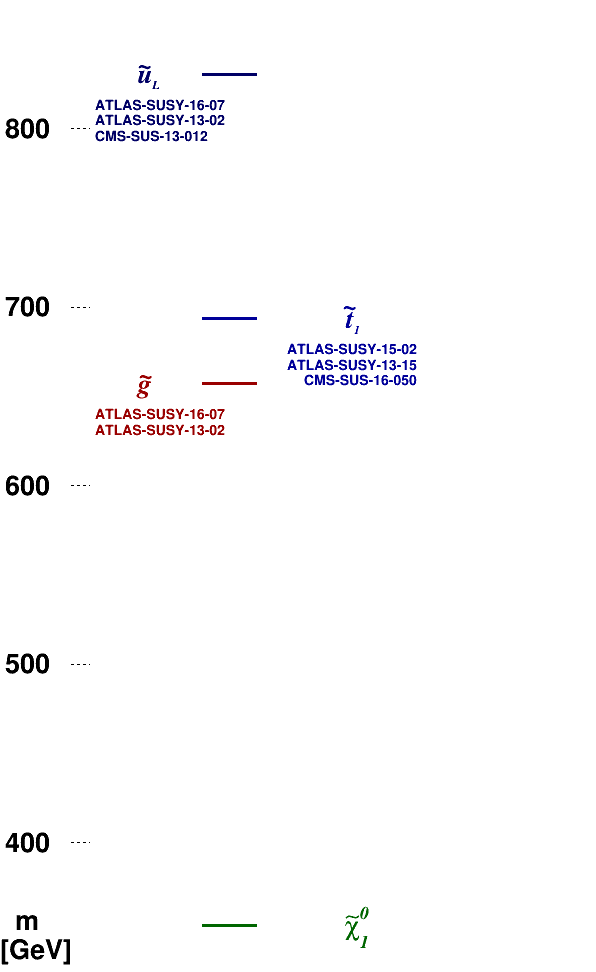
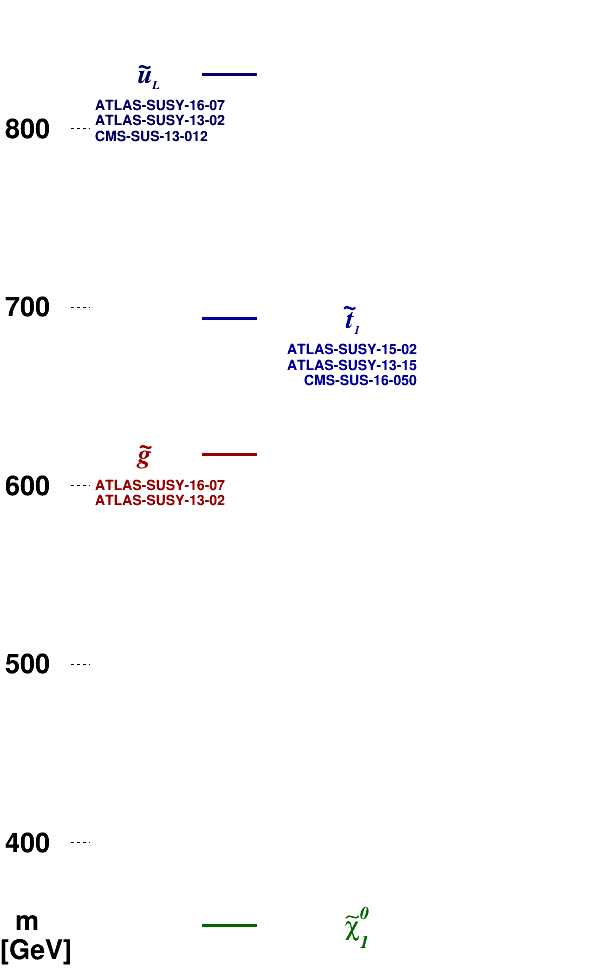
automated update by plotHiscore.py

Changed region(s): [[0.151, 0.3704, 0.3926, 0.5247]]

diff --git a/protomodels/latest/index.html b/protomodels/latest/index.html
@@ -1,17 +1,17 @@
 <html>
 <body>
 <center>
-<table><td><h1>Current best protomodel: K=9.82, Z=3.63</h1><td><img height=60px src=https://smodels.github.io/pics/banner.png></table>
+<table><td><h1>Current best protomodel: K=9.85, Z=3.63</h1><td><img height=60px src=https://smodels.github.io/pics/banner.png></table>
 </center>
-<b><a href=./hiscore.slha>ProtoModel</a> <a href=./pmodel.py>(dict)</a> produced with <a href=https://smodels.github.io/docs/Validation123>database v1.2.3</a>, combination strategy <a href=./matrix_aggressive.png>aggressive</a> in walker 12 step 288.</b> Z plots for: <a href=./M1000022.png?2255424>~&chi;<sub>1</sub><sup>0</sup></a>, <a href=./M1000002.png?2255424>~u<sub>L</sub></a>, <a href=./M1000006.png?2255424>~t<sub>1</sub></a>, <a href=./M1000021.png?2255424>~g</a>. HPD plots for: <a href=./llhd1000002.png?2255424>~u<sub>L</sub></a>, <a href=./llhd1000006.png?2255424>~t<sub>1</sub></a>, <a href=./llhd1000021.png?2255424>~g</a>. SSM plots for: <a href=./ssm_1000021_1000021.png?2255424>(~g,~g)</a>, <a href=./ssm_-1000006_1000006.png?2255424>(~t<sub>1</sub><sup>*</sup>,~t<sub>1</sub>)</a><br>
+<b><a href=./hiscore.slha>ProtoModel</a> <a href=./pmodel.py>(dict)</a> produced with <a href=https://smodels.github.io/docs/Validation123>database v1.2.3</a>, combination strategy <a href=./matrix_aggressive.png>aggressive</a> in walker 7 step 289.</b> Z plots for: <a href=./M1000022.png?2255535>~&chi;<sub>1</sub><sup>0</sup></a>, <a href=./M1000002.png?2255535>~u<sub>L</sub></a>, <a href=./M1000006.png?2255535>~t<sub>1</sub></a>, <a href=./M1000021.png?2255535>~g</a>. HPD plots for: <a href=./llhd1000002.png?2255535>~u<sub>L</sub></a>, <a href=./llhd1000006.png?2255535>~t<sub>1</sub></a>, <a href=./llhd1000021.png?2255535>~g</a>. SSM plots for: <a href=./ssm_1000021_1000021.png?2255535>(~g,~g)</a>, <a href=./ssm_-1000006_1000006.png?2255535>(~t<sub>1</sub><sup>*</sup>,~t<sub>1</sub>)</a><br>
 <table width=80%>
 <tr><td>
-<br><b>47 predictions available. Highest r values are:</b><br><ul>
-<li><a href=http://cms-results.web.cern.ch/cms-results/public-results/publications/SUS-19-006/index.html>CMS-SUS-19-006</a>:T2tt r=1.65, r<sub>exp</sub>=1.09<br>
-<li><a href=http://cms-results.web.cern.ch/cms-results/public-results/publications/SUS-16-049/index.html>CMS-SUS-16-049</a>:T2tt r=1.20, r<sub>exp</sub>=1.14<br>
-<li><a href=http://cms-results.web.cern.ch/cms-results/public-results/publications/SUS-16-036/index.html>CMS-SUS-16-036</a>:T2tt r=1.14, r<sub>exp</sub>=0.74<br>
-<li><a href=http://cms-results.web.cern.ch/cms-results/public-results/publications/SUS-16-051/index.html>CMS-SUS-16-051</a>:T2tt r=0.89, r<sub>exp</sub>=0.82<br>
-<li><a href=http://cms-results.web.cern.ch/cms-results/public-results/publications/SUS-16-033/index.html>CMS-SUS-16-033</a>:T2tt r=0.87, r<sub>exp</sub>=0.63<br>
+<br><b>55 predictions available. Highest r values are:</b><br><ul>
+<li><a href=http://cms-results.web.cern.ch/cms-results/public-results/publications/SUS-19-006/index.html>CMS-SUS-19-006</a>:T2 r=1.70, r<sub>exp</sub>=1.49<br>
+<li><a href=http://cms-results.web.cern.ch/cms-results/public-results/publications/SUS-19-006/index.html>CMS-SUS-19-006</a>:T2tt r=1.70, r<sub>exp</sub>=1.12<br>
+<li><a href=http://cms-results.web.cern.ch/cms-results/public-results/publications/SUS-16-033/index.html>CMS-SUS-16-033</a>:T2 r=1.62, r<sub>exp</sub>=1.12<br>
+<li><a href=http://cms-results.web.cern.ch/cms-results/public-results/publications/SUS-16-049/index.html>CMS-SUS-16-049</a>:T2tt r=1.23, r<sub>exp</sub>=1.17<br>
+<li><a href=http://cms-results.web.cern.ch/cms-results/public-results/publications/SUS-16-036/index.html>CMS-SUS-16-036</a>:T2 r=1.18, r<sub>exp</sub>=0.97<br>
 </ul>
 <td><br><b>Contributions per analysis:</b><br>
 <ul>
@@ -21,11 +21,11 @@
 <li> <a href=https://twiki.cern.ch/twiki/bin/view/CMSPublic/PhysicsResultsSUS13012>CMS-SUS-13-012</a>: 14%
 <li> <a href=https://atlas.web.cern.ch/Atlas/GROUPS/PHYSICS/PAPERS/SUSY-2013-15/>ATLAS-SUSY-2013-15</a>: -11%
 <li> <a href=https://atlas.web.cern.ch/Atlas/GROUPS/PHYSICS/PAPERS/SUSY-2013-02/>ATLAS-SUSY-2013-02</a>: -17%
-<td><img width=600px src=./texdoc.png?1595255424>
-<br><font size=-1>Last updated: Mon Jul 20 16:30:24 2020</font>
+<td><img width=600px src=./texdoc.png?1595255535>
+<br><font size=-1>Last updated: Mon Jul 20 16:32:15 2020</font>
 </table><table style="width:80%">
-<td width=45%><img height=580px src=./ruler.png?1595255424><td width=55%><img height=380px src=./decays.png?1595255424>
-<font size=-3><iframe type="text/html" height="220px" width="100%s" frameborder="0" src="./rawnumbers.html?1595255424"></iframe></font>
+<td width=45%><img height=580px src=./ruler.png?1595255535><td width=55%><img height=380px src=./decays.png?1595255535>
+<font size=-3><iframe type="text/html" height="220px" width="100%s" frameborder="0" src="./rawnumbers.html?1595255535"></iframe></font>
 </table>
 </body>
 </html>

diff --git a/protomodels/latest/pmodel.py b/protomodels/latest/pmodel.py
@@ -1,1 +1,1 @@
-{'masses': {1000022: 353.552, 1000002: 830.431, 1000006: 693.456, 1000021: 656.979}, 'ssmultipliers': {(1000022, 1000022): 2.271, (1000002, 1000002): 0.202, (-1000002, 1000002): 0.133, (1000002, 1000006): 0.0, (-1000006, 1000002): 0.0, (1000002, 1000021): 0.001, (1000002, 1000022): 0.0, (-1000002, -1000002): 0.133, (-1000002, 1000006): 0.0, (-1000006, -1000002): 0.139, (-1000002, 1000021): 0.001, (-1000002, 1000022): 0.0, (1000006, 1000006): 2.01, (-1000006, 1000006): 0.481, (1000006, 1000021): 0.001, (1000006, 1000022): 0.0, (-1000006, -1000006): 2.01, (-1000006, 1000021): 0.001, (-1000006, 1000022): 0.0, (1000021, 1000021): 0.001, (1000021, 1000022): 0.001}, 'decays': {1000022: {}, 1000002: {1000022: 0.987, 1000021: 0.013}, 1000006: {1000022: 1.0}, 1000021: {(1000022, 1): 1.0}}, 'timestamp': 'Mon Jul 20 16:30:16 2020', 'Z': 3.629, 'K': 9.821, 'step': 288}
+{'masses': {1000022: 353.552, 1000002: 830.431, 1000006: 693.456, 1000021: 617.616}, 'ssmultipliers': {(1000022, 1000022): 2.266, (1000002, 1000002): 0.202, (-1000002, 1000002): 0.133, (1000002, 1000006): 0.0, (-1000006, 1000002): 0.0, (1000002, 1000021): 0.001, (1000002, 1000022): 0.0, (-1000002, -1000002): 0.133, (-1000002, 1000006): 0.0, (-1000006, -1000002): 0.139, (-1000002, 1000021): 0.001, (-1000002, 1000022): 0.0, (1000006, 1000006): 2.006, (-1000006, 1000006): 0.48, (1000006, 1000021): 0.001, (1000006, 1000022): 0.0, (-1000006, -1000006): 2.006, (-1000006, 1000021): 0.001, (-1000006, 1000022): 0.0, (1000021, 1000021): 0.001, (1000021, 1000022): 0.001}, 'decays': {1000022: {}, 1000002: {1000022: 0.987, 1000021: 0.013}, 1000006: {1000022: 1.0}, 1000021: {(1000022, 1): 1.0}}, 'timestamp': 'Mon Jul 20 16:32:11 2020', 'Z': 3.633, 'K': 9.849, 'step': 289}
